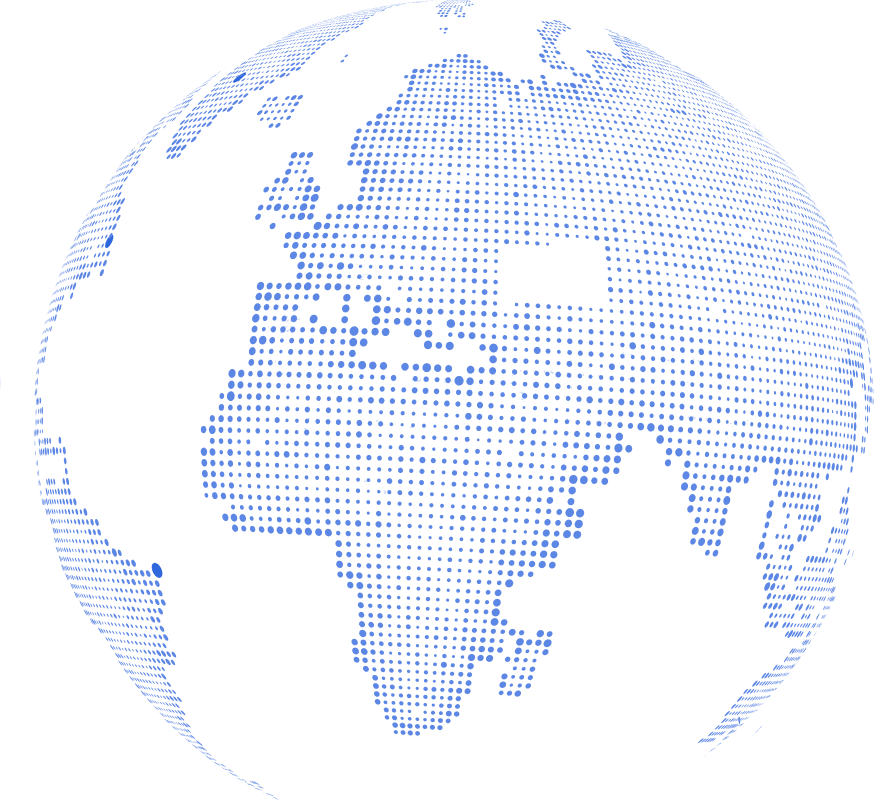
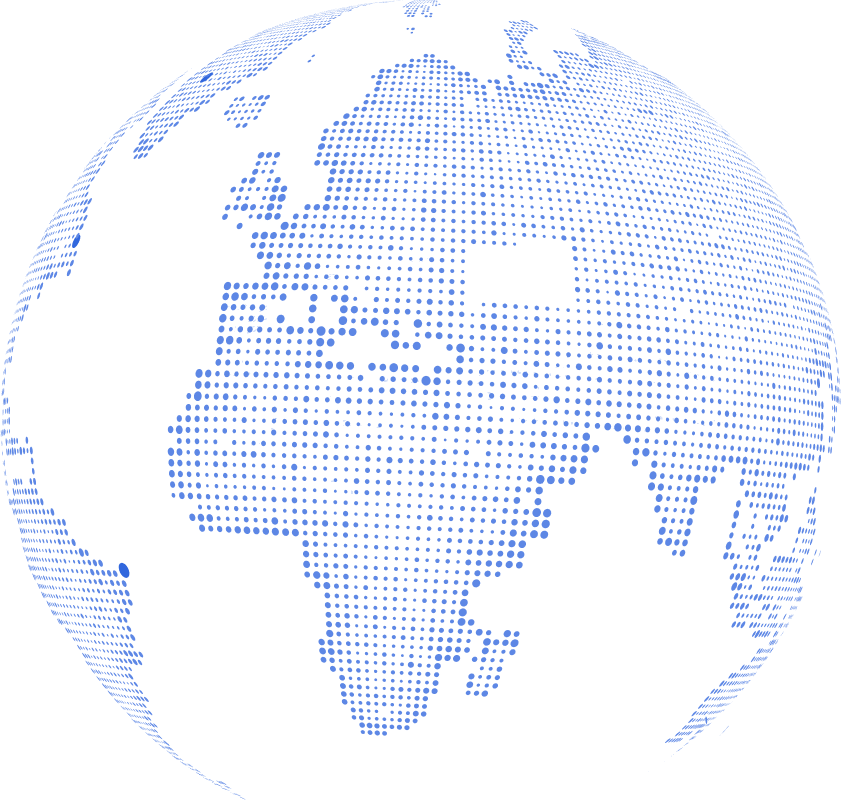
Added animations and corrected styling

diff --git a/app/components/dashboard-title-wrapper/vpn-menu/VPNMenuContent.tsx b/app/components/dashboard-title-wrapper/vpn-menu/VPNMenuContent.tsx
@@ -1,99 +1,106 @@
 "use client";
 
-import React, { useState } from "react";
-import { Lock } from "lucide-react";
+import React from "react";
 import Image from "next/image";
-import GraphSheetContainer from "@/app/components/ui/graphsheet";
+import { motion } from "framer-motion";
+import { useAtom } from "jotai";
 import VPNSwitch from "./VPNSwitch";
+import VPNStatusIndicator from "./VPNStatusIndicator";
+import { vpnConnectedAtom } from "./vpnAtoms";
+import { RevealTextLine } from "@/app/components/ui";
+import { InView } from "react-intersection-observer";
 
 const VPNMenuContent = () => {
-  const [isConnected, setIsConnected] = useState(false);
+  const [isConnected, setIsConnected] = useAtom(vpnConnectedAtom);
 
   return (
-    <div className="w-full bg-white rounded-lg overflow-hidden flex flex-col">
-      {/* Header / Visual Area */}
-      <div className="relative h-[184px] bg-primary-100 m-4 mb-0 rounded-lg overflow-hidden shrink-0">
-        {/* Grid Background */}
-        <div className="absolute inset-0 opacity-10">
-          <GraphSheetContainer
-            majorCell={{
-              lineColor: [31, 80, 189, 1.0],
-              lineWidth: 2,
-              cellDim: 46,
-            }}
-            minorCell={{
-              lineColor: [49, 103, 211, 1.0],
-              lineWidth: 1,
-              cellDim: 46,
-            }}
-            className="w-full h-full"
-          />
-        </div>
-
-        {/* Globe */}
-        <div className="absolute left-1/2 top-[80px] -translate-x-1/2 w-[437px] h-[400px] pointer-events-none z-20">
-          <Image
-            src="/globe.png"
-            alt="Globe"
-            width={437}
-            height={400}
-            className="object-contain object-top"
-            priority
-            quality={100}
-            loading="eager"
-          />
-        </div>
-
-        {/* Title */}
-        <div className="absolute top-[22px] left-0 right-0 text-center z-10">
-          <h2 className="font-semibold text-2xl text-primary-50 leading-8">
-            Hippius Secure Tunnel
-          </h2>
-        </div>
-      </div>
-
-      {/* Content Area */}
-      <div className="p-4 pt-0 flex flex-col gap-4">
-        {/* Description */}
-        <div className="text-center mt-4">
-          <h3 className="font-medium text-[22px] leading-8 text-grey-10 mb-1">
-            Encrypted Access to Hippius
-          </h3>
-          <p className="font-medium text-base leading-[22px] text-grey-50 tracking-[-0.32px]">
-            This tunnel provides authenticated, end-to-end encrypted
-            connectivity to the entire Hippius mesh.
-          </p>
-        </div>
-
-        {/* Status Bar */}
-        <div className="flex items-center justify-between px-2 py-1.5 bg-white border border-grey-80 rounded-[4px]">
-          <span className="font-medium text-base leading-[22px] text-grey-50 tracking-[-0.32px]">
-            {isConnected ? "Your VPN is On" : "Your VPN is Off"}
-          </span>
-
-          <VPNSwitch checked={isConnected} onCheckedChange={setIsConnected} />
-        </div>
-
-        {/* Connected Status Details (Only when connected) */}
-        {isConnected && (
-          <div className="flex items-center justify-center gap-2 py-2 shadow-[0px_12px_36px_0px_rgba(0,0,0,0.14)] rounded-[4px] animate-in fade-in slide-in-from-top-2 duration-300">
-            <div className="flex items-center gap-1">
-              <div className="w-3 h-3 rounded-full bg-[#27AE60]" />
-              <span className="font-medium text-sm leading-5 text-grey-10 tracking-[-0.28px]">
-                Connected
-              </span>
+    <InView triggerOnce>
+      {({ inView, ref }) => (
+        <div
+          ref={ref}
+          className="w-full bg-white rounded-lg overflow-hidden flex flex-col"
+        >
+          {/* Header / Visual Area */}
+          <div className="relative h-[184px] bg-primary-100 m-4 mb-0 rounded-lg overflow-hidden shrink-0">
+            {/* Grid Background */}
+            <div className="absolute inset-0">
+              <Image
+                src="/vpn-grid.png"
+                alt="Grid Background"
+                fill
+                className="object-cover"
+              />
             </div>
-            <div className="w-[1px] h-[14px] bg-grey-80 mx-1" />
-            <div className="flex items-center gap-1">
-              <Lock className="w-3.5 h-3.5 text-grey-10" />
-              <span className="font-medium text-sm leading-5 text-grey-10 tracking-[-0.28px]">
-                Encrypted
-              </span>
+
+            {/* Globe */}
+            <div className="absolute left-1/2  top-[80px] -translate-x-1/2 w-[437px] h-[400px] pointer-events-none z-20">
+              <motion.div
+                animate={{ rotate: 360 }}
+                transition={{
+                  duration: 50,
+                  repeat: Infinity,
+                  ease: "linear",
+                }}
+              >
+                <Image
+                  src="/globe.png"
+                  alt="Globe"
+                  width={437}
+                  height={400}
+                  className="object-contain object-top rotate-[-20deg]"
+                  priority
+                  quality={100}
+                  loading="eager"
+                />
+              </motion.div>
+            </div>
+            {/* Title */}
+            <div className="absolute top-[22px] left-0 right-0 flex justify-center z-10">
+              <RevealTextLine reveal={inView} delay={100}>
+                <h2 className="font-semibold text-2xl text-primary-50 leading-8">
+                  Hippius Secure Tunnel
+                </h2>
+              </RevealTextLine>
             </div>
           </div>
-        )}
-      </div>
-    </div>
+
+          {/* Content Area */}
+          <div className="p-4 pt-0 flex flex-col gap-4">
+            {/* Description */}
+            <div className="text-center mt-4 flex flex-col items-center">
+              <RevealTextLine reveal={inView} delay={200}>
+                <h3 className="font-medium text-[22px] leading-8 text-grey-10 mb-1">
+                  Encrypted Access to Hippius
+                </h3>
+              </RevealTextLine>
+              <RevealTextLine reveal={inView} delay={300}>
+                <p className="font-medium text-base leading-[22px] text-grey-50 tracking-[-0.32px] text-center max-w-[320px]">
+                  This tunnel provides authenticated, end-to-end encrypted
+                  connectivity to the entire Hippius mesh.
+                </p>
+              </RevealTextLine>
+            </div>
+
+            {/* Status Bar */}
+            <div className="flex items-center justify-between px-2 py-1.5 bg-white border border-grey-80 rounded-[4px]">
+              <RevealTextLine reveal={inView} delay={400}>
+                <span className="font-medium text-base leading-[22px] text-grey-50 tracking-[-0.32px]">
+                  {isConnected ? "Your VPN is On" : "Your VPN is Off"}
+                </span>
+              </RevealTextLine>
+
+              <VPNSwitch
+                checked={isConnected}
+                onCheckedChange={setIsConnected}
+              />
+            </div>
+
+            {/* Connected Status Details (Only when connected) */}
+            {isConnected && <VPNStatusIndicator />}
+          </div>
+        </div>
+      )}
+    </InView>
   );
 };
 

diff --git a/app/components/dashboard-title-wrapper/vpn-menu/index.tsx b/app/components/dashboard-title-wrapper/vpn-menu/index.tsx
@@ -4,6 +4,8 @@ import { useState } from "react";
 import * as Menubar from "@radix-ui/react-menubar";
 import VPNIconButton from "./VPNIconButton";
 import VPNMenuContent from "./VPNMenuContent";
+import { useAtom } from "jotai";
+import { vpnConnectedAtom } from "./vpnAtoms";
 
 type Props = {
   className?: string;
@@ -11,6 +13,7 @@ type Props = {
 
 export default function VPNMenu({ className = "delay-500" }: Props) {
   const [menuValue, setMenuValue] = useState<string>("");
+  const [isConnected] = useAtom(vpnConnectedAtom);
 
   return (
     <Menubar.Root
@@ -21,16 +24,22 @@ export default function VPNMenu({ className = "delay-500" }: Props) {
       <Menubar.Menu value="vpn">
         <Menubar.Trigger asChild>
           <button>
-            <VPNIconButton className={className} />
+            <VPNIconButton className={className} isConnected={isConnected} />
           </button>
         </Menubar.Trigger>
 
         <Menubar.Portal>
           <Menubar.Content
-            align="end"
-            sideOffset={8}
-            className="w-[400px] bg-white shadow-menu rounded-lg border border-grey-80 z-50"
+            align="center"
+            sideOffset={5}
+            className="w-[400px] bg-white shadow-menu rounded-lg border border-grey-80 -translate-x-2 z-50"
           >
+            <Menubar.Arrow
+              className="fill-grey-100  stroke stroke-grey-80 translate-y-[-1px] z-[-1]"
+              height={18}
+              width={20.78}
+            />
+
             <VPNMenuContent />
           </Menubar.Content>
         </Menubar.Portal>

diff --git a/app/components/dashboard-title-wrapper/vpn-menu/VPNIconButton.tsx b/app/components/dashboard-title-wrapper/vpn-menu/VPNIconButton.tsx
@@ -2,17 +2,31 @@
 
 import { InView } from "react-intersection-observer";
 import { RevealTextLine } from "@/app/components/ui";
+import cn from "@/app/lib/utils/cn";
 
 const VPNIconButton: React.FC<{
   className?: string;
-}> = ({ className }) => {
+  isConnected?: boolean;
+}> = ({ className, isConnected = false }) => {
   return (
     <InView triggerOnce>
       {({ inView, ref }) => (
         <div ref={ref} className="flex items-center justify-center h-full mr-4">
           <RevealTextLine reveal={inView} className={className}>
-            <span className="bg-white border border-grey-80 rounded-[4px] relative flex items-center justify-center h-[36px] w-[36px]">
-              <span className="text-grey-10 font-medium text-[10px] leading-4 tracking-[-0.2px]">
+            <span
+              className={cn(
+                "border rounded-[4px] relative flex items-center justify-center h-[36px] min-w-[36px] px-2 transition-colors duration-200",
+                isConnected
+                  ? "bg-primary-50 border-primary-50"
+                  : "bg-white border-grey-80"
+              )}
+            >
+              <span
+                className={cn(
+                  "font-medium text-[10px] leading-4 tracking-[-0.2px]",
+                  isConnected ? "text-white" : "text-grey-10"
+                )}
+              >
                 VPN
               </span>
             </span>

diff --git a/app/components/dashboard-title-wrapper/vpn-menu/VPNStatusIndicator.tsx b/app/components/dashboard-title-wrapper/vpn-menu/VPNStatusIndicator.tsx
@@ -1,0 +1,33 @@
+import React from "react";
+import Lock from "../../ui/icons/Lock";
+
+const VPNStatusIndicator = () => {
+  return (
+    <div className="flex items-center justify-center gap-3  animate-in fade-in slide-in-from-top-2 duration-300">
+      {/* Connected Part */}
+      <div className="flex items-center gap-2">
+        <span className="inline-flex items-center gap-2  rounded-lg ">
+          <span className="p-1 rounded-full bg-success-70">
+            <span className="block w-1.5 h-1.5 rounded-full bg-success-50"></span>
+          </span>
+        </span>
+        <span className="font-medium text-[15px] leading-5 text-grey-10">
+          Connected
+        </span>
+      </div>
+
+      {/* Divider */}
+      <div className="w-[1px] h-5 bg-grey-70" />
+
+      {/* Encrypted Part */}
+      <div className="flex items-center gap-2">
+        <Lock className="w-3.5 h-3.5 text-grey-10" />
+        <span className="font-medium text-[15px] leading-5 text-grey-10">
+          Encrypted
+        </span>
+      </div>
+    </div>
+  );
+};
+
+export default VPNStatusIndicator;

diff --git a/app/components/dashboard-title-wrapper/vpn-menu/VPNSwitch.tsx b/app/components/dashboard-title-wrapper/vpn-menu/VPNSwitch.tsx
@@ -24,8 +24,10 @@ const VPNSwitch = ({ checked, onCheckedChange }: VPNSwitchProps) => {
       >
         <Switch.Thumb
           className={cn(
-            "block w-[20px] h-[20px] bg-white rounded-full shadow-[0_2px_4px_0_rgba(0,0,0,0.2)] transition-transform duration-200 ease-in-out translate-x-0.5 will-change-transform",
-            checked ? "translate-x-[17.5px]" : "translate-x-0.5"
+            "block w-[14px] h-[14px]  rounded-full shadow-[0_2px_4px_0_rgba(0,0,0,0.2)] transition-transform duration-200 ease-in-out translate-x-0.5 will-change-transform",
+            checked
+              ? "translate-x-[21px] bg-white"
+              : "translate-x-[6px] bg-grey-70"
           )}
         />
       </Switch.Root>

diff --git a/app/components/dashboard-title-wrapper/vpn-menu/vpnAtoms.ts b/app/components/dashboard-title-wrapper/vpn-menu/vpnAtoms.ts
@@ -1,0 +1,3 @@
+import { atom } from "jotai";
+
+export const vpnConnectedAtom = atom<boolean>(false);
